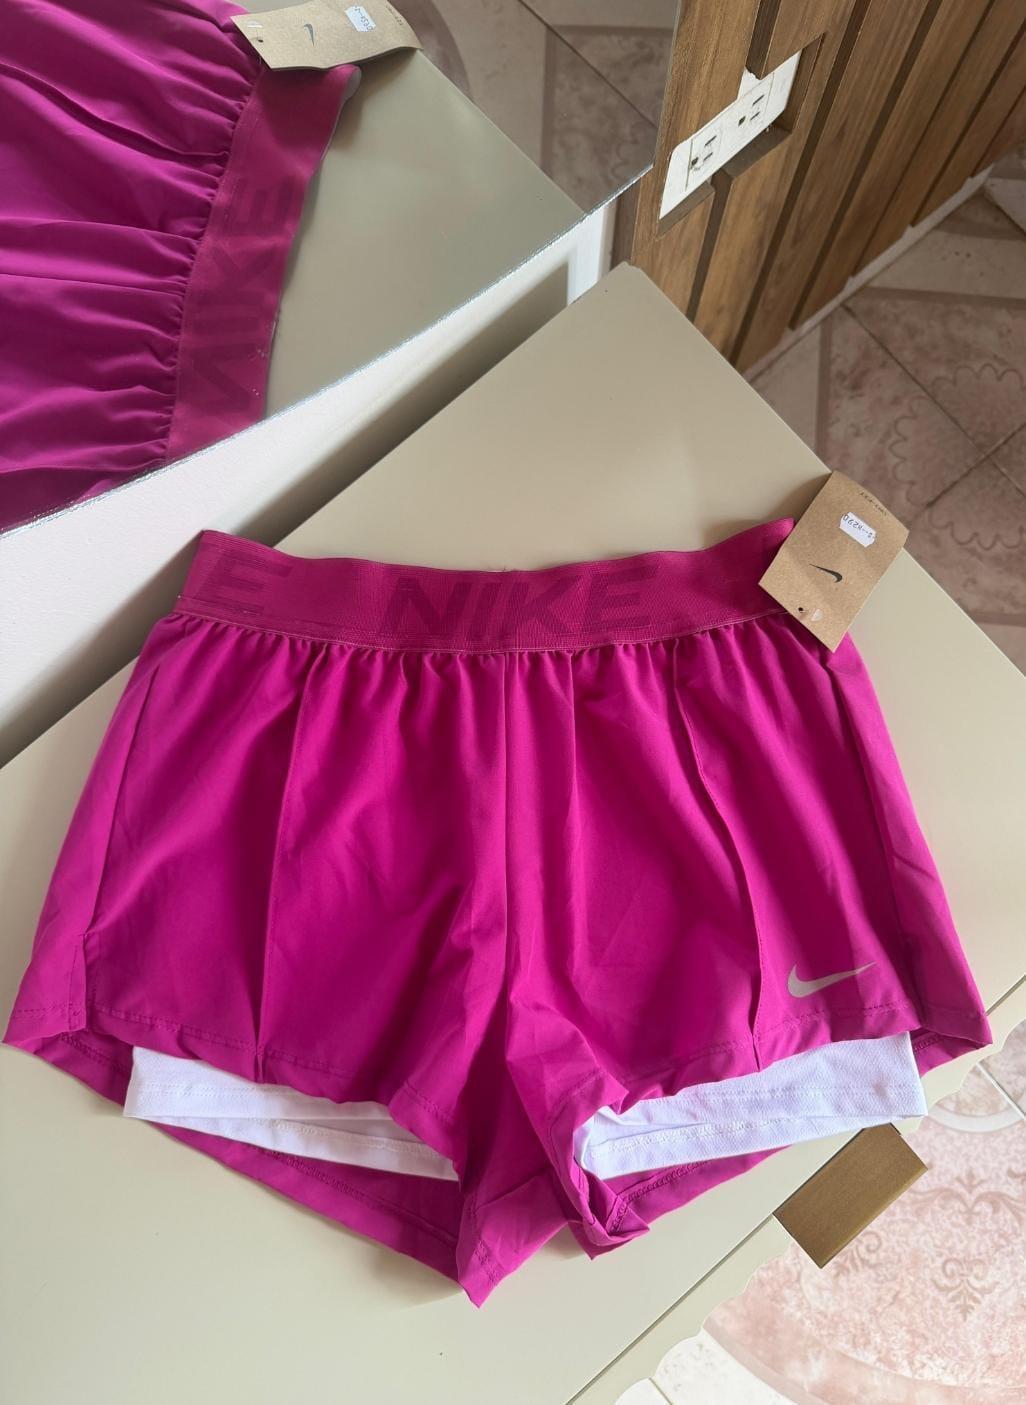
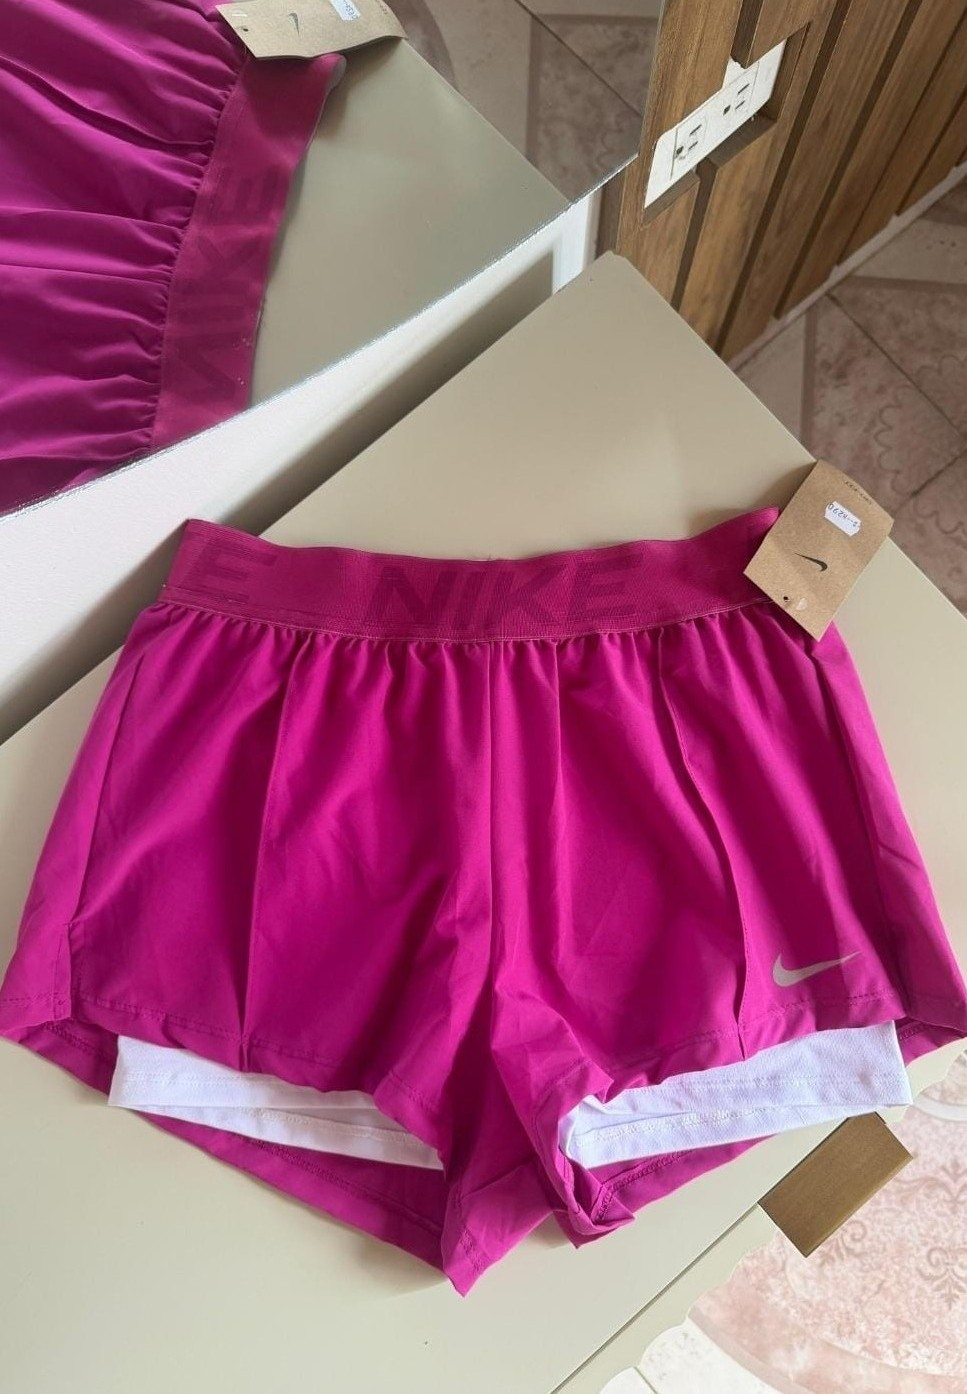
agregamos producto short FUCSIA

diff --git a/src/Components/Assets/all_product.js b/src/Components/Assets/all_product.js
@@ -85,6 +85,11 @@ import shortverde1 from "./lyf/shortverde1.jpeg";
 import shortverde2 from "./lyf/shortverde2.jpeg";
 import shortverde3 from "./lyf/shortverde3.jpeg";
 import shortverde4 from "./lyf/shortverde4.jpeg";
+// 204
+import shortfucsia1 from "./lyf/shortfucsia1.jpeg";
+import shortfucsia2 from "./lyf/shortfucsia2.jpeg";
+import shortfucsia3 from "./lyf/shortfucsia3.jpeg";
+import shortfucsia4 from "./lyf/shortfucsia4.jpeg";
 
 // ----------------------- Categoria 3 BODYS Y TOPS -----------------------
 // 302
@@ -465,6 +470,25 @@ let all_product = [
     image2: short2,
     image3: short3,
     image4: short4,
+    new_price: 65000,
+    old_price: 70000,
+    sizes: {
+      XS: false,
+      S: true,
+      M: true,
+      L: false,
+      XL: false,
+    },
+  },
+  {
+    id: 204,
+    name: "SHORT RUNNING - TONO FUCSIA",
+    category: "legginsyfaldas",
+    description: "Tela completamente acanalada",
+    image: shortfucsia1,
+    image2: shortfucsia2,
+    image3: shortfucsia3,
+    image4: shortfucsia4,
     new_price: 65000,
     old_price: 70000,
     sizes: {
